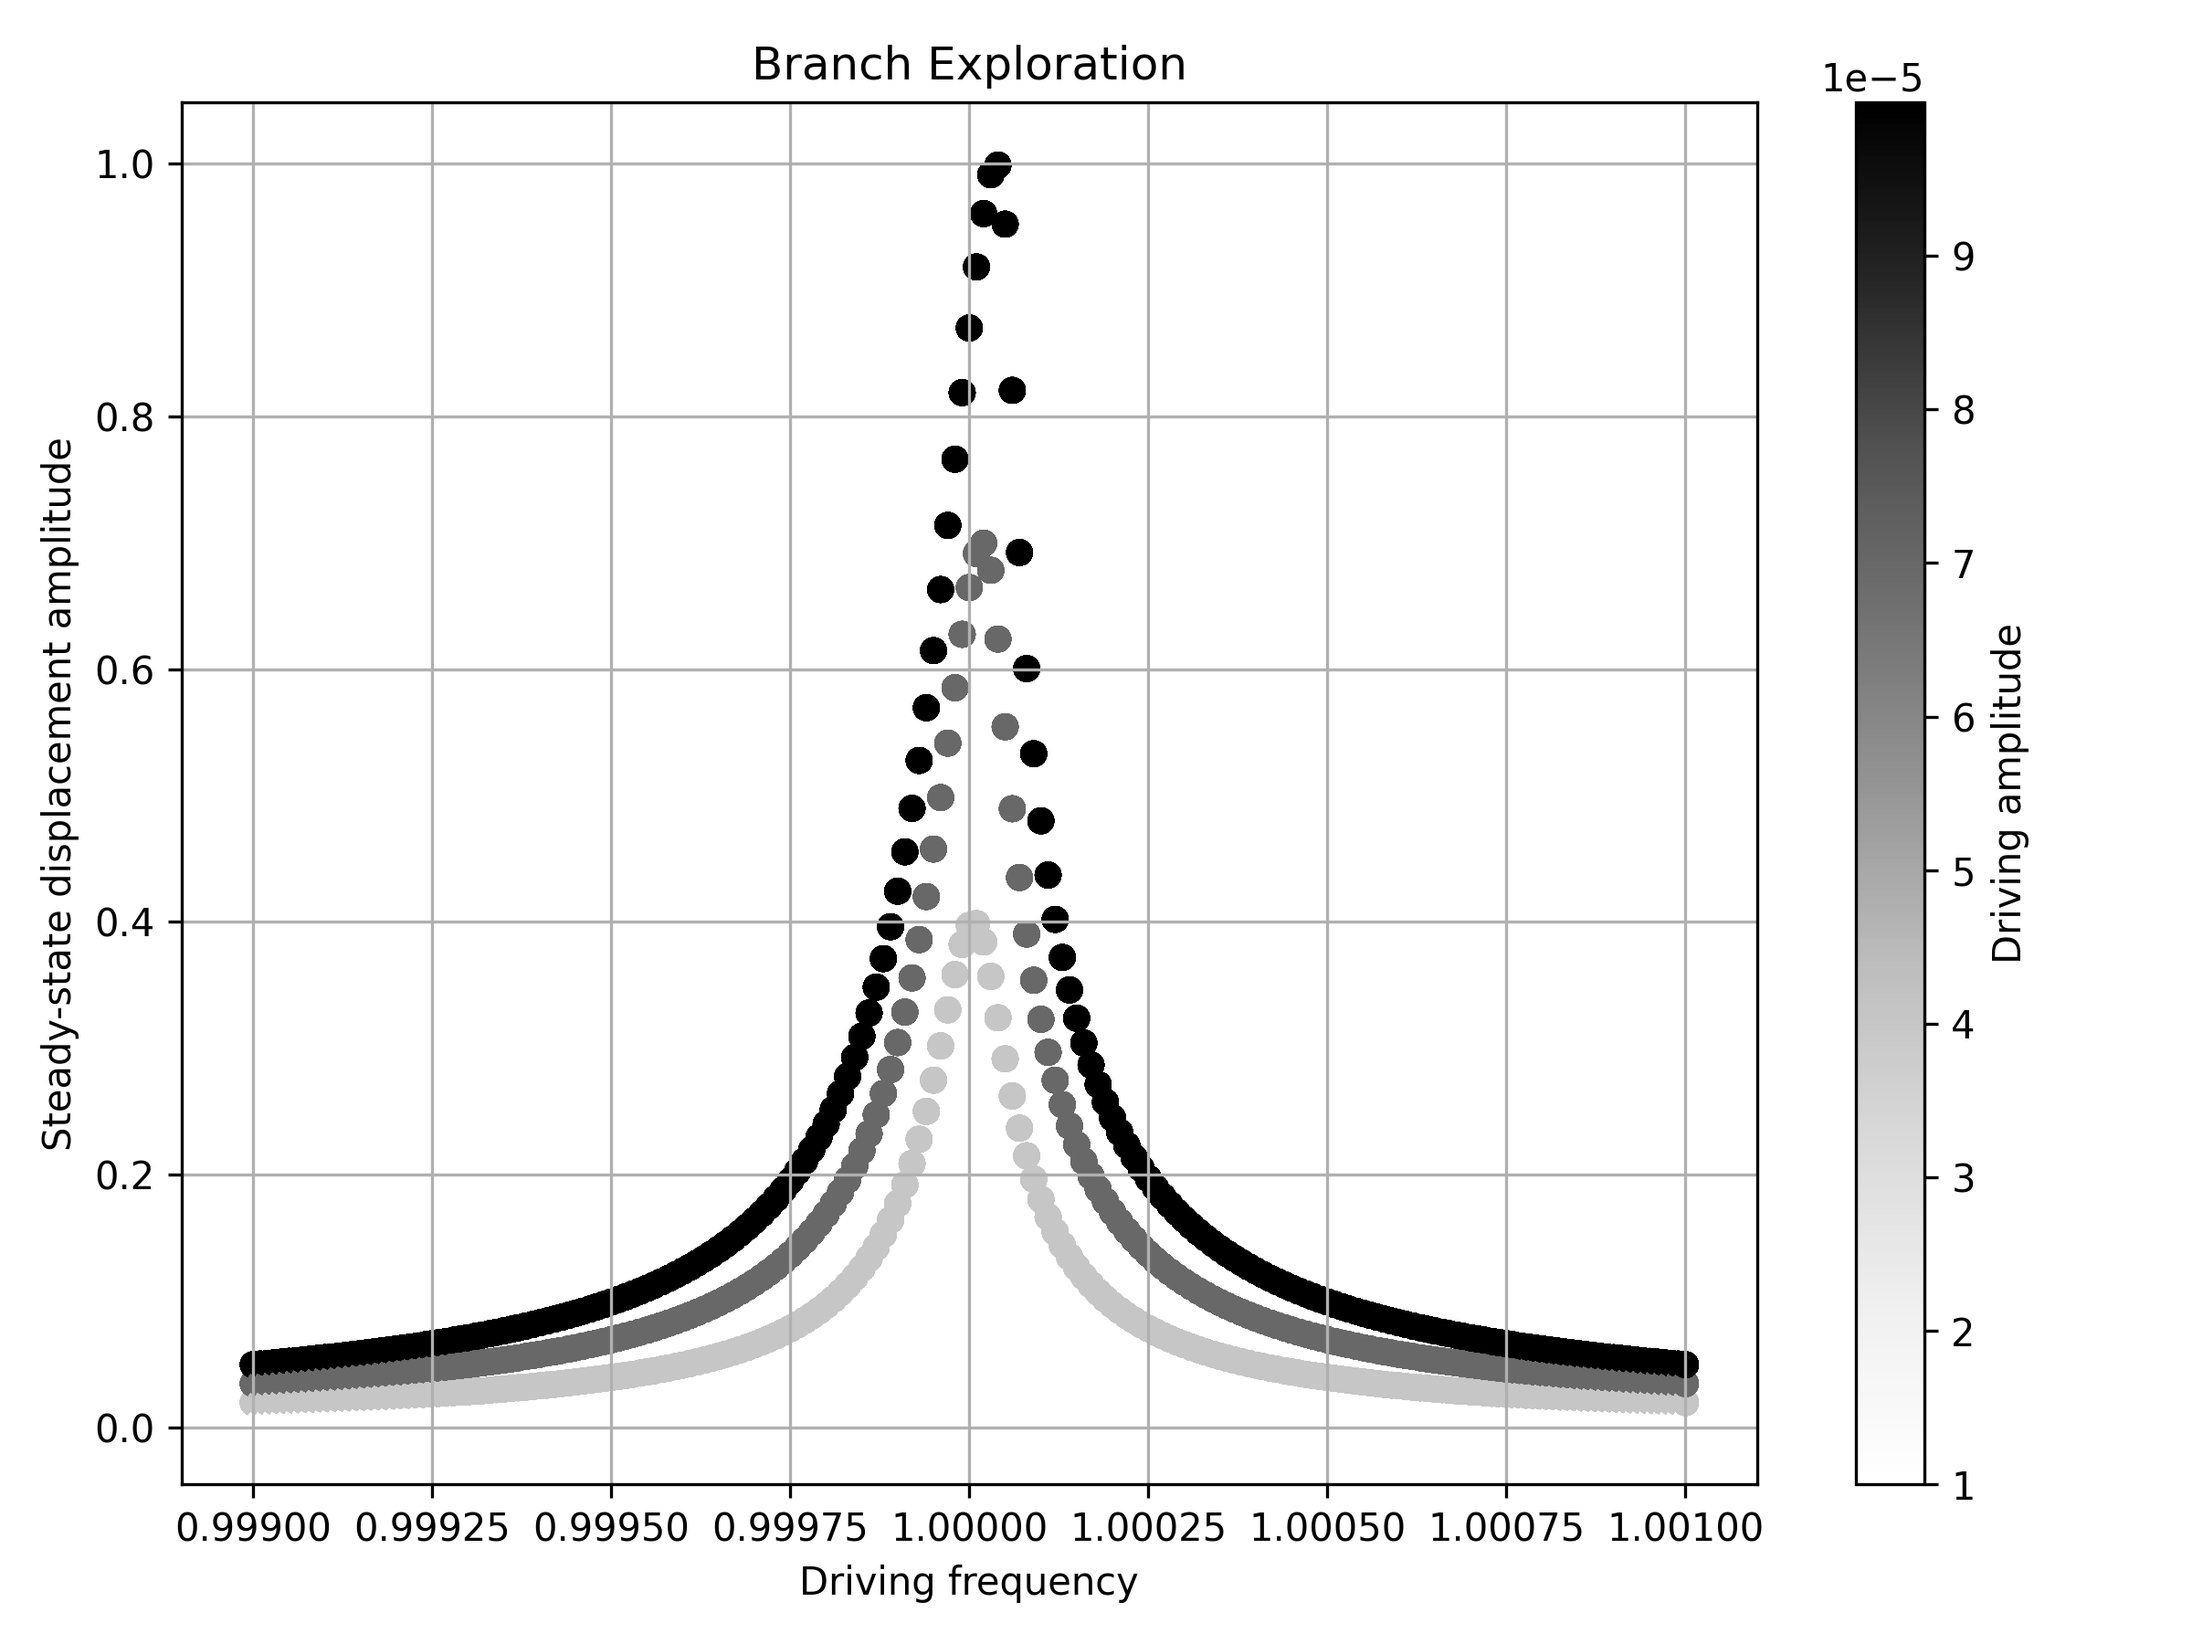
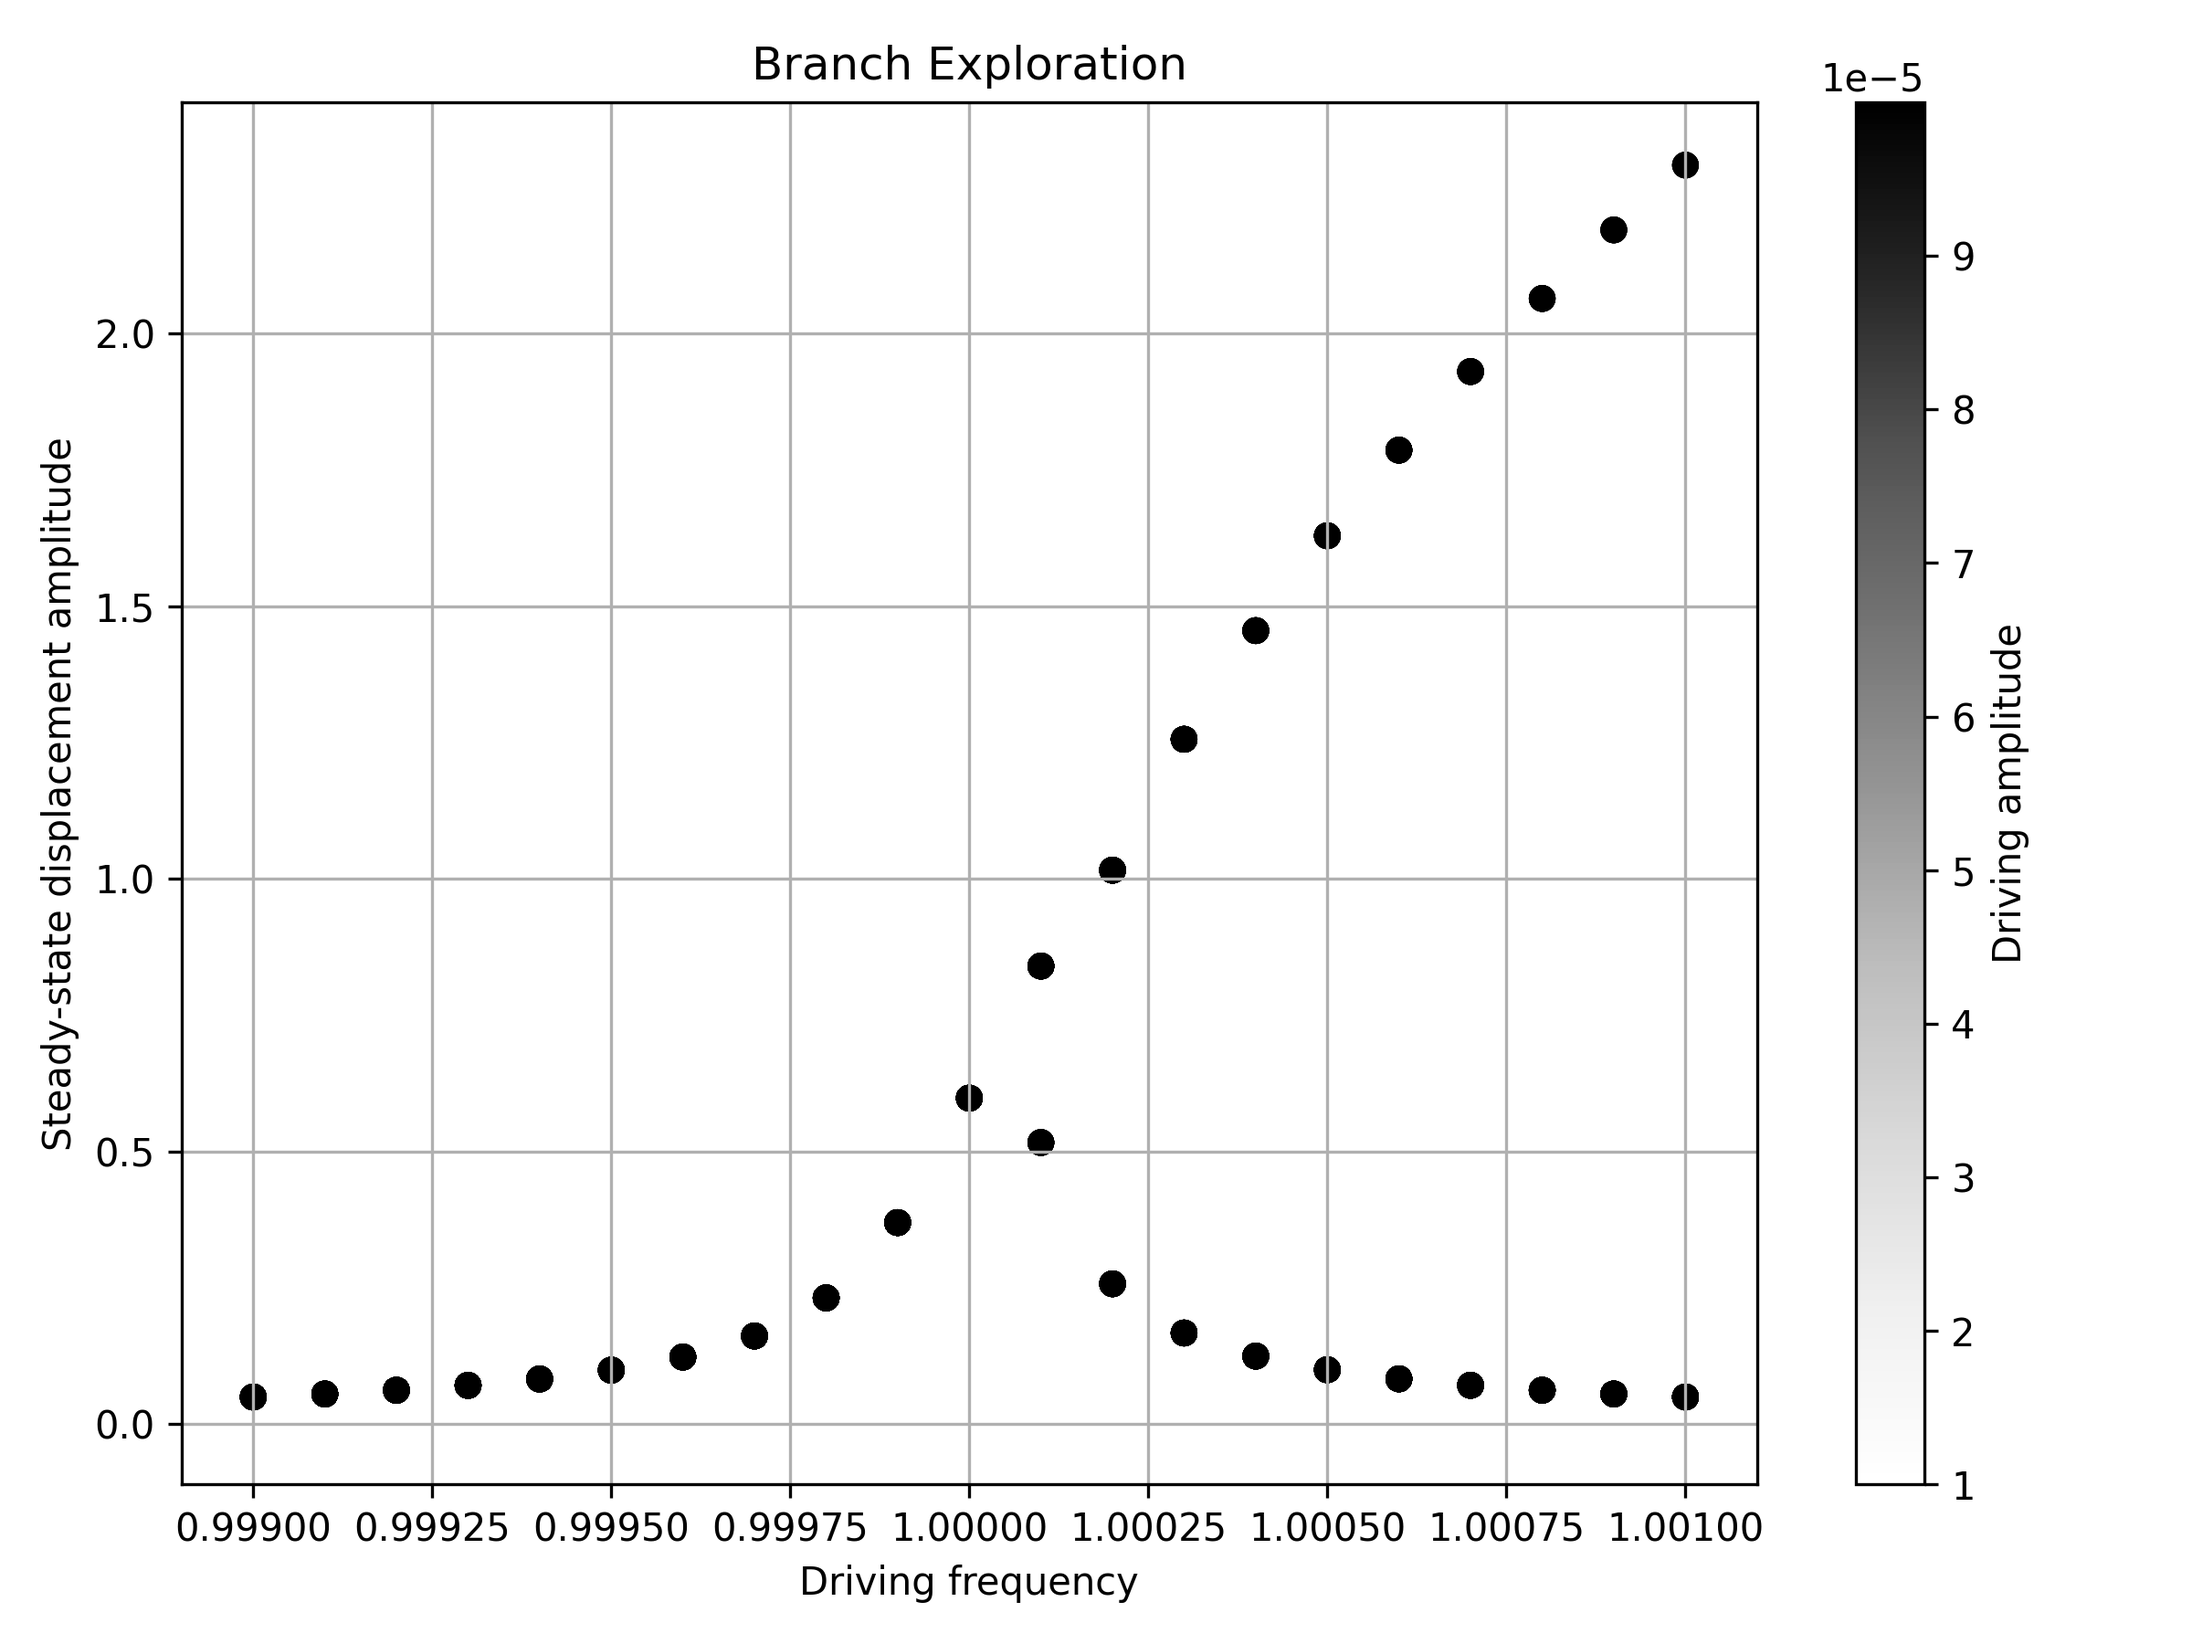
Update initial conditions and driving parameters for frequency sweep tests; adjust constants for consistency

diff --git a/tests/frequency_sweep/test_frequency_sweep.py b/tests/frequency_sweep/test_frequency_sweep.py
@@ -1,14 +1,17 @@
+import os
+os.environ["XLA_PYTHON_CLIENT_MEM_FRACTION"] = "0.95"  # Use 95% of GPU memory
+
 from jax import numpy as jnp
 import oscidyn
 import time
 
-Q, omega_0, gamma = 10000.0, 1.0, 0.0005
+Q, omega_0, gamma = 10000.0, 1.0, 0.0002
 full_width_half_max = omega_0 / Q
 
 MODEL = oscidyn.BaseDuffingOscillator.from_physical_params(Q=jnp.array([Q]), gamma=jnp.array([gamma]), omega_0=jnp.array([omega_0]))
 SWEEP_DIRECTION = oscidyn.SweepDirection.FORWARD
-DRIVING_FREQUENCY = jnp.linspace((1.0-10*full_width_half_max), (1.0+10*full_width_half_max), 201) 
-DRIVING_AMPLITUDE = jnp.linspace(0.1* omega_0**2/Q, 1.0*omega_0**2/Q, 10)
+DRIVING_FREQUENCY = jnp.linspace((1.0-10*full_width_half_max), (1.0+10*full_width_half_max), 51) 
+DRIVING_AMPLITUDE = jnp.linspace(0.1* omega_0**2/Q, 1.0*omega_0**2/Q, 2)
 SOLVER = oscidyn.MultipleShootingSolver(max_steps=1000, m_segments=5, max_shooting_iterations=500, rtol=1e-9, atol=1e-12, verbose=True)
 PRECISION = oscidyn.Precision.DOUBLE
 

diff --git a/src/oscidyn/solver/multiple_shooting_solver.py b/src/oscidyn/solver/multiple_shooting_solver.py
@@ -73,10 +73,9 @@ class MultipleShootingSolver(AbstractSolver):
         )
         drive_freq_mesh_flat = drive_freq_mesh.ravel()                       # (n_sim,)
         drive_amp_mesh_flat  = drive_amp_mesh.ravel()                        # (n_sim,)
-        init_disp_mesh_flat  = init_disp_mesh.ravel()                        # (n_sim,)
-        init_vel_mesh_flat   = init_vel_mesh.ravel()                         # (n_sim,)
 
-        y0_guess = jnp.array([init_disp_mesh_flat, init_vel_mesh_flat]).reshape((-1, self.model.n_modes * 2))  # (n_sim, n_modes*2) 
+        y0_guess = jnp.stack([init_disp_mesh, init_vel_mesh], axis=-1)  # (F, A, D, V, 2)
+        y0_guess = y0_guess.reshape(-1, 2)                              # (n_sim, 2) for 1 mode
 
         _, x_max = jax.vmap(self._calc_periodic_solution)(
             drive_freq_mesh_flat, drive_amp_mesh_flat, y0_guess

diff --git a/src/oscidyn/solver/utils/coarse_grid.py b/src/oscidyn/solver/utils/coarse_grid.py
@@ -58,13 +58,15 @@ def gen_grid_2(model: AbstractModel,
                     drive_amp: jax.Array,
                     ):
     
-    max_abs_displacement = float((jnp.max(drive_amp) * jnp.abs(model.Q)).item()) * 1.5
+    max_abs_displacement = float((jnp.max(drive_amp) * jnp.abs(model.Q)).item()) * const.LINEAR_RESPONSE_FACTOR
 
     init_disp_grid = jnp.linspace(
         0.0, max_abs_displacement, const.N_COARSE_INITIAL_DISPLACEMENTS
     ) # (N_COARSE_INITIAL_DISPLACEMENTS,)
     
-    init_vel_grid = jnp.array([0.0])
+    init_vel_grid = jnp.linspace(
+        -max_abs_displacement, max_abs_displacement, const.N_COARSE_INITIAL_VELOCITIES
+    ) # (N_COARSE_INITIAL_VELOCITIES,)
 
     drive_freq_mesh, drive_amp_mesh, init_disp_mesh, init_vel_mesh = jnp.meshgrid(
         drive_freq, drive_amp, init_disp_grid, init_vel_grid, indexing="ij"

diff --git a/src/oscidyn/constants.py b/src/oscidyn/constants.py
@@ -16,9 +16,10 @@ class ResponseType(Enum):
 
 N_COARSE_DRIVING_FREQUENCIES = 51# Odd number to include middle frequency
 N_COARSE_DRIVING_AMPLITUDES = 5
-N_COARSE_INITIAL_DISPLACEMENTS= 31
-N_COARSE_INITIAL_VELOCITIES = 31
+N_COARSE_INITIAL_DISPLACEMENTS= 21
+N_COARSE_INITIAL_VELOCITIES = 21
 N_COARSE_INITIAL_CONDITIONS_OFFSET_FACTOR = 2 
+LINEAR_RESPONSE_FACTOR = 1.5
 
 MAXIMUM_ORDER_SUBHARMONICS = 10
 MAXIMUM_ORDER_SUPERHARMONICS = 10
